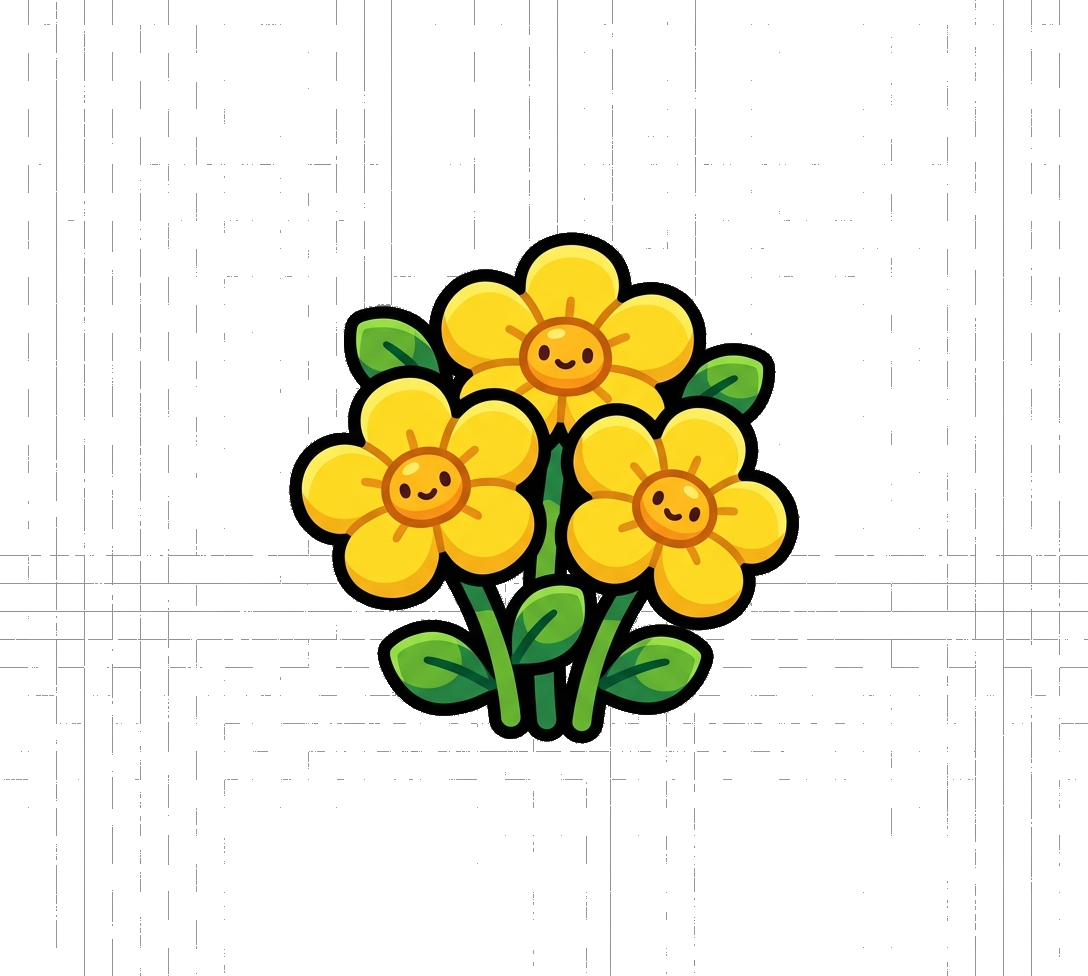
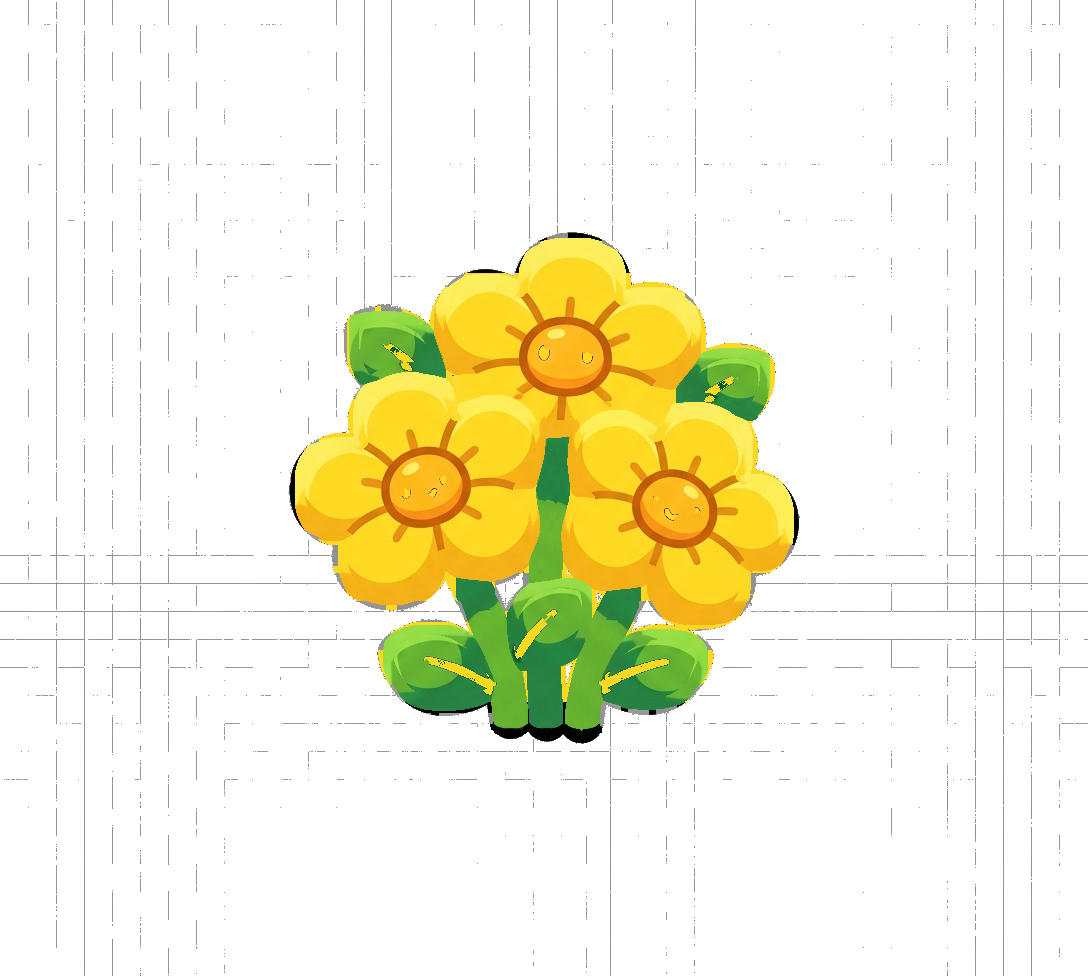
auto-commit for 2c83784d-5fcc-4bf9-ab13-34d076ec5ae1

diff --git a/frontend/src/game/scenes/MenuScene.ts b/frontend/src/game/scenes/MenuScene.ts
@@ -1,6 +1,6 @@
 import Phaser from 'phaser';
 import { GAME_WIDTH, GAME_HEIGHT } from '@/main';
-import { buildParallax, PARALLAX_SPEEDS, scatterMenuDecor, type ParallaxLayers } from '@/game/systems/Parallax';
+import { buildParallax, scatterMenuDecor, type ParallaxLayers } from '@/game/systems/Parallax';
 import { gameState, CORGIS } from '@/game/systems/GameState';
 import { PolishedButton, CircleIconButton } from '@/game/ui/PolishedButton';
 import { drawTrophyPanel, drawTreatsPill } from '@/game/ui/PolishedHUD';
@@ -27,6 +27,15 @@ export class MenuScene extends Phaser.Scene {
 
   create(): void {
     this.layers = buildParallax(this);
+    // Menu is a static illustrated title screen — force all tile layers to a
+    // known starting position and never advance them in update().
+    this.layers.cloudsFar.tilePositionX = 0;
+    this.layers.clouds.tilePositionX = 0;
+    this.layers.mountains.tilePositionX = 0;
+    this.layers.hills.tilePositionX = 0;
+    this.layers.grass.tilePositionX = 0;
+    this.layers.path.tilePositionX = 0;
+    this.layers.foreground.tilePositionX = 0;
     scatterMenuDecor(this, this.layers.groundTop);
     this.cameras.main.fadeIn(260, 63, 167, 255);
 
@@ -51,16 +60,13 @@ export class MenuScene extends Phaser.Scene {
       ease: 'Linear',
     });
 
-    // ---- Logo ----
+    // ---- Logo (frozen — no scale/angle pulse) ----
     if (this.textures.exists('logo_corgi_hop')) {
       const logo = this.add.image(GAME_WIDTH / 2, 300, 'logo_corgi_hop').setDepth(40);
-      // Scale so logo width is 78% of screen but preserve aspect ratio.
       const targetW = GAME_WIDTH * 0.78;
       logo.setScale(targetW / logo.width);
-      this.tweens.add({ targets: logo, scale: logo.scale * 1.04, angle: -1, duration: 1500, yoyo: true, repeat: -1, ease: 'Sine.easeInOut' });
       logo.setData('testId', 'menu-logo');
     } else {
-      // Fallback big text logo
       const t = this.add.text(GAME_WIDTH / 2, 280, 'CORGI\nHOP', {
         fontFamily: 'system-ui, -apple-system, sans-serif',
         fontSize: '130px',
@@ -129,25 +135,47 @@ export class MenuScene extends Phaser.Scene {
       fontSize: '20px', fontStyle: '800', color: '#ffffff',
     }).setOrigin(0.5).setDepth(31);
 
-    // "TAP" hint under buttons
-    const hint = this.add.text(GAME_WIDTH / 2, 920, 'Tap PLAY to start hopping!', {
+    // "TAP" hint under buttons (frozen — no alpha pulse per freeze rules)
+    this.add.text(GAME_WIDTH / 2, 920, 'Tap PLAY to start hopping!', {
       fontFamily: 'system-ui, -apple-system, sans-serif',
       fontSize: '22px', fontStyle: '800', color: '#ffffff',
       stroke: '#24304a', strokeThickness: 4,
     }).setOrigin(0.5).setDepth(30);
-    this.tweens.add({ targets: hint, alpha: { from: 1, to: 0.65 }, duration: 900, yoyo: true, repeat: -1 });
+
+    // ---- Rain overlay ----
+    // The only motion allowed alongside the dog is a light rain particle
+    // effect that falls across the whole scene.
+    this.buildRain();
   }
 
-  update(_time: number, delta: number): void {
-    const dt = delta / 1000;
-    this.layers.cloudsFar.tilePositionX += PARALLAX_SPEEDS.cloudsFar * dt;
-    this.layers.clouds.tilePositionX     += PARALLAX_SPEEDS.clouds * dt;
-    this.layers.mountains.tilePositionX  += PARALLAX_SPEEDS.mountains * dt * 0.5;
-    this.layers.hills.tilePositionX      += PARALLAX_SPEEDS.hills * dt * 0.4;
-    this.layers.grass.tilePositionX      += PARALLAX_SPEEDS.grass * dt * 0.35;
-    this.layers.path.tilePositionX       += PARALLAX_SPEEDS.path * dt * 0.35;
-    this.layers.foreground.tilePositionX += PARALLAX_SPEEDS.foreground * dt * 0.35;
+  /** Rain particle emitter — vertical thin white streaks falling top → bottom. */
+  private buildRain(): void {
+    const key = 'menu_rain_drop';
+    if (!this.textures.exists(key)) {
+      const g = this.make.graphics({ x: 0, y: 0 }, false);
+      g.fillStyle(0xffffff, 1);
+      g.fillRoundedRect(0, 0, 4, 22, 2);
+      g.generateTexture(key, 4, 22);
+      g.destroy();
+    }
+    this.add.particles(0, -40, key, {
+      x: { min: -20, max: GAME_WIDTH + 20 },
+      y: -40,
+      lifespan: 1500,
+      speedY: { min: 900, max: 1200 },
+      speedX: { min: -20, max: 20 },
+      angle: 100,
+      alpha: { start: 0.35, end: 0 },
+      scaleX: { min: 0.4, max: 0.8 },
+      scaleY: { min: 0.7, max: 1.3 },
+      frequency: 40,
+      quantity: 2,
+      blendMode: Phaser.BlendModes.NORMAL,
+    }).setDepth(45);
   }
+
+  // NOTE: no `update()` on MenuScene — the title is a static illustrated
+  // scene. Only GameScene runs the parallax tick.
 
   private gotoGame(): void {
     this.cameras.main.fadeOut(200, 63, 167, 255);

diff --git a/frontend/scripts/erase_prop_faces.py b/frontend/scripts/erase_prop_faces.py
@@ -1,0 +1,104 @@
+#!/usr/bin/env python3
+"""Erase the cartoon faces the AI baked into rock.png and flower_yellow.png.
+
+The generator drew tiny eyes + smiles on background props. To keep the world
+feeling like a countryside scene (not a face menagerie) we paint them out with
+the dominant surrounding colour of each rock / petal.
+
+Approach:
+  1. Convert to numpy.
+  2. Inside the central 60% region of the sprite, detect the FEATURE PIXELS:
+     - near-black eyes / mouth (`max(r,g,b) < 60`)
+     - near-white eye whites (`min(r,g,b) > 220` AND alpha=255)
+  3. Grow the mask by a few pixels so we cover the anti-aliased edges too.
+  4. Inpaint each feature pixel with the median colour of its neighbourhood
+     (a 15×15 window).
+"""
+from pathlib import Path
+from PIL import Image
+import numpy as np
+
+ASSETS = Path("/app/frontend/public/assets")
+
+
+def dilate(mask: np.ndarray, k: int) -> np.ndarray:
+    """Naive binary dilation by `k` pixels (no scipy dependency)."""
+    out = mask.copy()
+    for _ in range(k):
+        shifted = np.zeros_like(out)
+        shifted[:-1, :] |= out[1:, :]
+        shifted[1:, :]  |= out[:-1, :]
+        shifted[:, :-1] |= out[:, 1:]
+        shifted[:, 1:]  |= out[:, :-1]
+        out |= shifted
+    return out
+
+
+def inpaint_from_neighbours(arr: np.ndarray, mask: np.ndarray, radius: int = 8) -> np.ndarray:
+    """Replace RGB channels of masked pixels with the median of a KxK window
+    (excluding other masked pixels)."""
+    r, g, b, a = arr[..., 0], arr[..., 1], arr[..., 2], arr[..., 3]
+    out = arr.copy()
+    ys, xs = np.where(mask)
+    for y, x in zip(ys, xs):
+        y0, y1 = max(0, y - radius), min(arr.shape[0], y + radius + 1)
+        x0, x1 = max(0, x - radius), min(arr.shape[1], x + radius + 1)
+        window_mask = ~mask[y0:y1, x0:x1] & (a[y0:y1, x0:x1] > 0)
+        if window_mask.any():
+            samples_r = r[y0:y1, x0:x1][window_mask]
+            samples_g = g[y0:y1, x0:x1][window_mask]
+            samples_b = b[y0:y1, x0:x1][window_mask]
+            out[y, x, 0] = int(np.median(samples_r))
+            out[y, x, 1] = int(np.median(samples_g))
+            out[y, x, 2] = int(np.median(samples_b))
+    return out
+
+
+def erase_face(name: str, region_frac: tuple[float, float, float, float] = (0.15, 0.15, 0.7, 0.7)) -> None:
+    """region_frac = (left, top, width, height) fractions of the image."""
+    p = ASSETS / name
+    if not p.exists():
+        print(f"[skip] {name} missing")
+        return
+    im = Image.open(p).convert("RGBA")
+    arr = np.array(im)
+    h, w = arr.shape[:2]
+
+    # Restrict feature detection to the central region so we don't nuke the
+    # outer outline stroke.
+    lx, ly, rw, rh = region_frac
+    x0, y0 = int(w * lx), int(h * ly)
+    x1, y1 = x0 + int(w * rw), y0 + int(h * rh)
+    region = arr[y0:y1, x0:x1]
+
+    r, g, b, a = region[..., 0], region[..., 1], region[..., 2], region[..., 3]
+    mx = np.maximum(np.maximum(r, g), b).astype(int)
+    mn = np.minimum(np.minimum(r, g), b).astype(int)
+    is_near_black = (mx < 70) & (a > 0)
+    is_near_white = (mn > 220) & (a > 0)
+    feature_mask_region = is_near_black | is_near_white
+
+    # Build a full-image mask
+    mask = np.zeros((h, w), dtype=bool)
+    mask[y0:y1, x0:x1] = feature_mask_region
+    mask = dilate(mask, 3)
+
+    if not mask.any():
+        print(f"[skip] {name}: no face features detected")
+        return
+
+    fixed = inpaint_from_neighbours(arr, mask, radius=10)
+    Image.fromarray(fixed, "RGBA").save(p, "PNG", optimize=True)
+    print(f"[ok  ] {name}: repainted {int(mask.sum())} feature pixels")
+
+
+def main():
+    # Rock: face is roughly in the upper-central area
+    erase_face("rock.png", region_frac=(0.15, 0.15, 0.7, 0.6))
+    # Yellow flowers: multiple small faces at the centre of each petal cluster,
+    # so we search the full central band.
+    erase_face("flower_yellow.png", region_frac=(0.20, 0.20, 0.60, 0.55))
+
+
+if __name__ == "__main__":
+    main()

diff --git a/frontend/scripts/flatten_prop_faces.py b/frontend/scripts/flatten_prop_faces.py
@@ -1,0 +1,90 @@
+#!/usr/bin/env python3
+"""Aggressively remove the cartoon face on rock.png.
+
+The subtle-inpaint approach left eye outlines behind. This version:
+1. Samples the median grey of the rock away from the face (the corners of the
+   central region), gets a target rock colour + a gradient sample.
+2. Paints an ellipse covering the face area with that colour, blending into
+   the surrounding tones with a soft alpha mask so it looks natural.
+"""
+from pathlib import Path
+from PIL import Image, ImageDraw, ImageFilter
+import numpy as np
+
+ASSETS = Path("/app/frontend/public/assets")
+
+
+def flatten_rock_face() -> None:
+    p = ASSETS / "rock.png"
+    im = Image.open(p).convert("RGBA")
+    arr = np.array(im)
+    h, w = arr.shape[:2]
+
+    # 1. Sample a "clean rock" patch just below the face (the smooth lower-mid).
+    sample = arr[int(h * 0.55) : int(h * 0.75), int(w * 0.30) : int(w * 0.70), :3]
+    # Filter out any black-outline pixels within the patch.
+    mn = sample.min(axis=2)
+    ok_mask = mn > 90
+    clean = sample[ok_mask]
+    if clean.size == 0:
+        rock_rgb = (140, 140, 140)
+    else:
+        rock_rgb = tuple(int(v) for v in np.median(clean.reshape(-1, 3), axis=0))
+    print(f"  rock target colour = {rock_rgb}")
+
+    # 2. Build a soft ellipse mask centred on the face bounds.
+    mask_layer = Image.new("L", (w, h), 0)
+    d = ImageDraw.Draw(mask_layer)
+    ex0, ey0 = int(w * 0.22), int(h * 0.20)
+    ex1, ey1 = int(w * 0.80), int(h * 0.62)
+    d.ellipse((ex0, ey0, ex1, ey1), fill=255)
+    mask_layer = mask_layer.filter(ImageFilter.GaussianBlur(radius=14))
+
+    # 3. Composite a flat rock rectangle over the face using that mask.
+    flat = Image.new("RGBA", (w, h), rock_rgb + (0,))
+    # Fill only where alpha is >0 so we don't spill outside the rock silhouette.
+    flat_arr = np.array(flat)
+    flat_arr[..., 3] = arr[..., 3]  # copy original alpha (keeps rock outline)
+    flat_pil = Image.fromarray(flat_arr, "RGBA")
+
+    result = Image.composite(flat_pil, im, mask_layer)
+    result.save(p, "PNG", optimize=True)
+    print(f"[ok  ] rock face flattened using {rock_rgb}")
+
+
+def soften_flower_faces() -> None:
+    """Same approach but tuned to yellow flower petals."""
+    p = ASSETS / "flower_yellow.png"
+    if not p.exists():
+        return
+    im = Image.open(p).convert("RGBA")
+    arr = np.array(im)
+    h, w = arr.shape[:2]
+
+    # Any near-black feature pixel inside the flower area — replace with the
+    # median orange colour of nearby non-black pixels.
+    r, g, b, a = arr[..., 0], arr[..., 1], arr[..., 2], arr[..., 3]
+    mx = np.maximum(np.maximum(r, g), b).astype(int)
+    is_dark = (mx < 90) & (a > 0)
+    # Only inside the flower area (drop the outer outline).
+    inside = np.zeros_like(is_dark)
+    inside[int(h * 0.28) : int(h * 0.72), int(w * 0.28) : int(w * 0.72)] = True
+    mask = is_dark & inside
+    if not mask.any():
+        print("[skip] flower faces already clean")
+        return
+
+    # Sample the surrounding petal colour.
+    petals = arr[..., :3][(mx > 180) & inside]
+    petal_rgb = tuple(int(v) for v in np.median(petals.reshape(-1, 3), axis=0)) if petals.size else (255, 210, 60)
+    out = arr.copy()
+    out[mask, 0] = petal_rgb[0]
+    out[mask, 1] = petal_rgb[1]
+    out[mask, 2] = petal_rgb[2]
+    Image.fromarray(out, "RGBA").save(p, "PNG", optimize=True)
+    print(f"[ok  ] flower faces flattened using {petal_rgb} ({int(mask.sum())} px)")
+
+
+if __name__ == "__main__":
+    flatten_rock_face()
+    soften_flower_faces()
